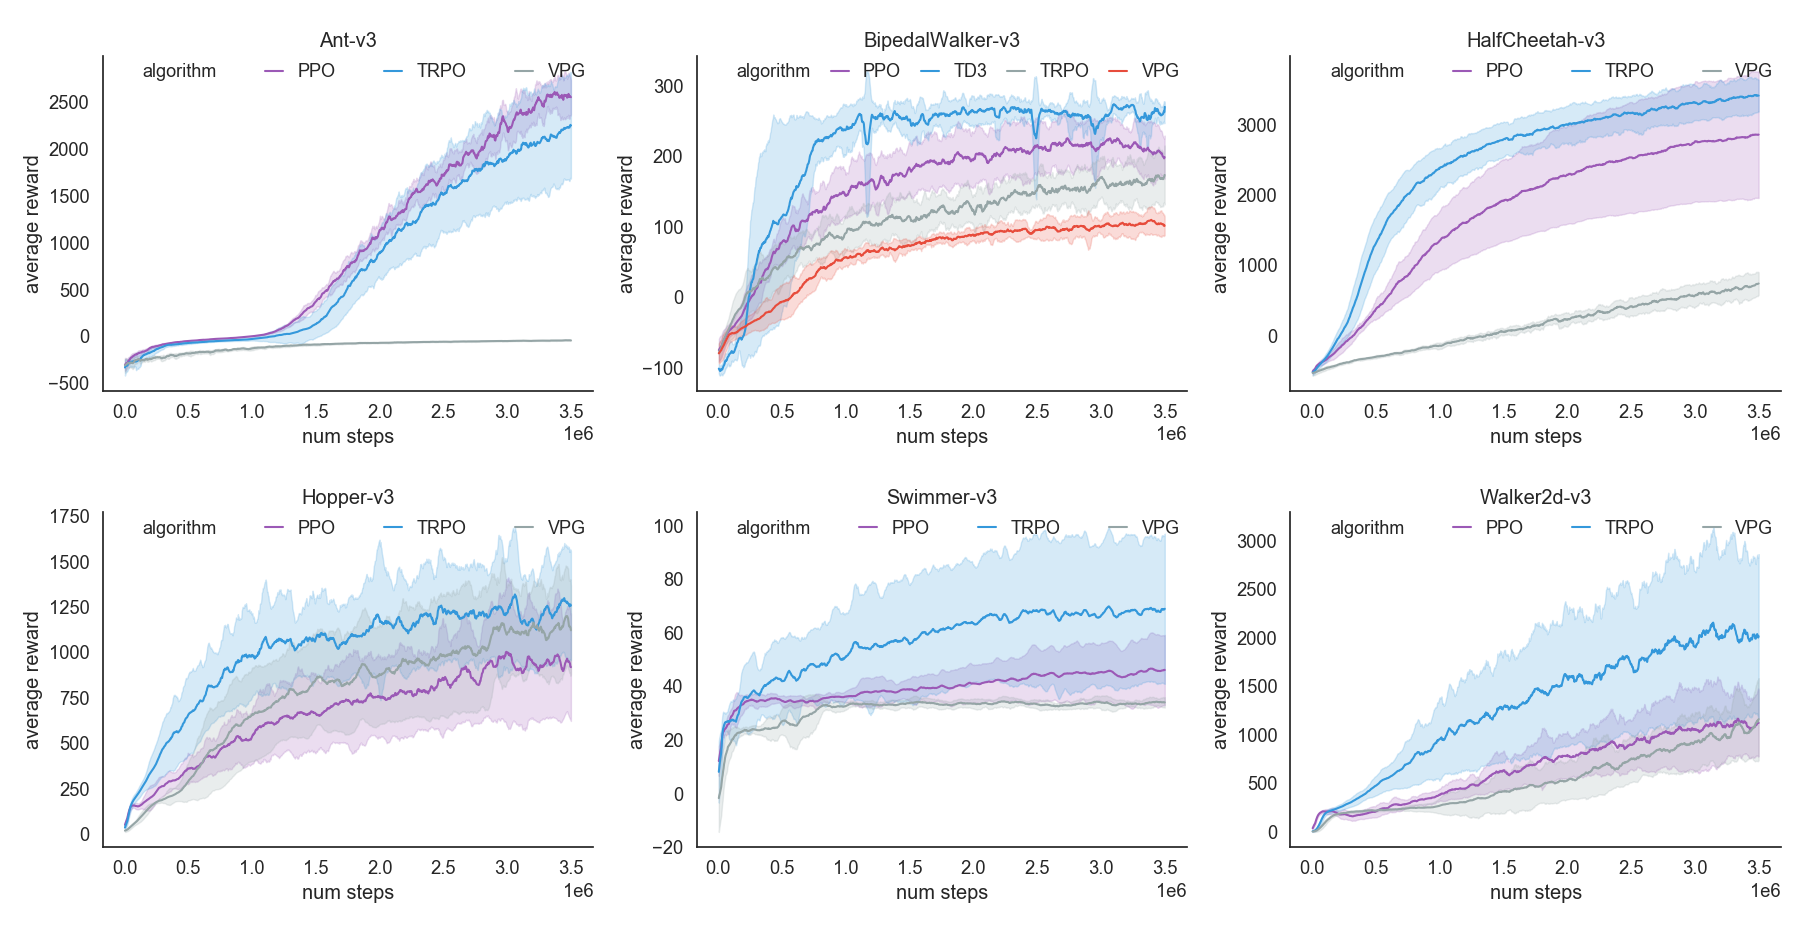
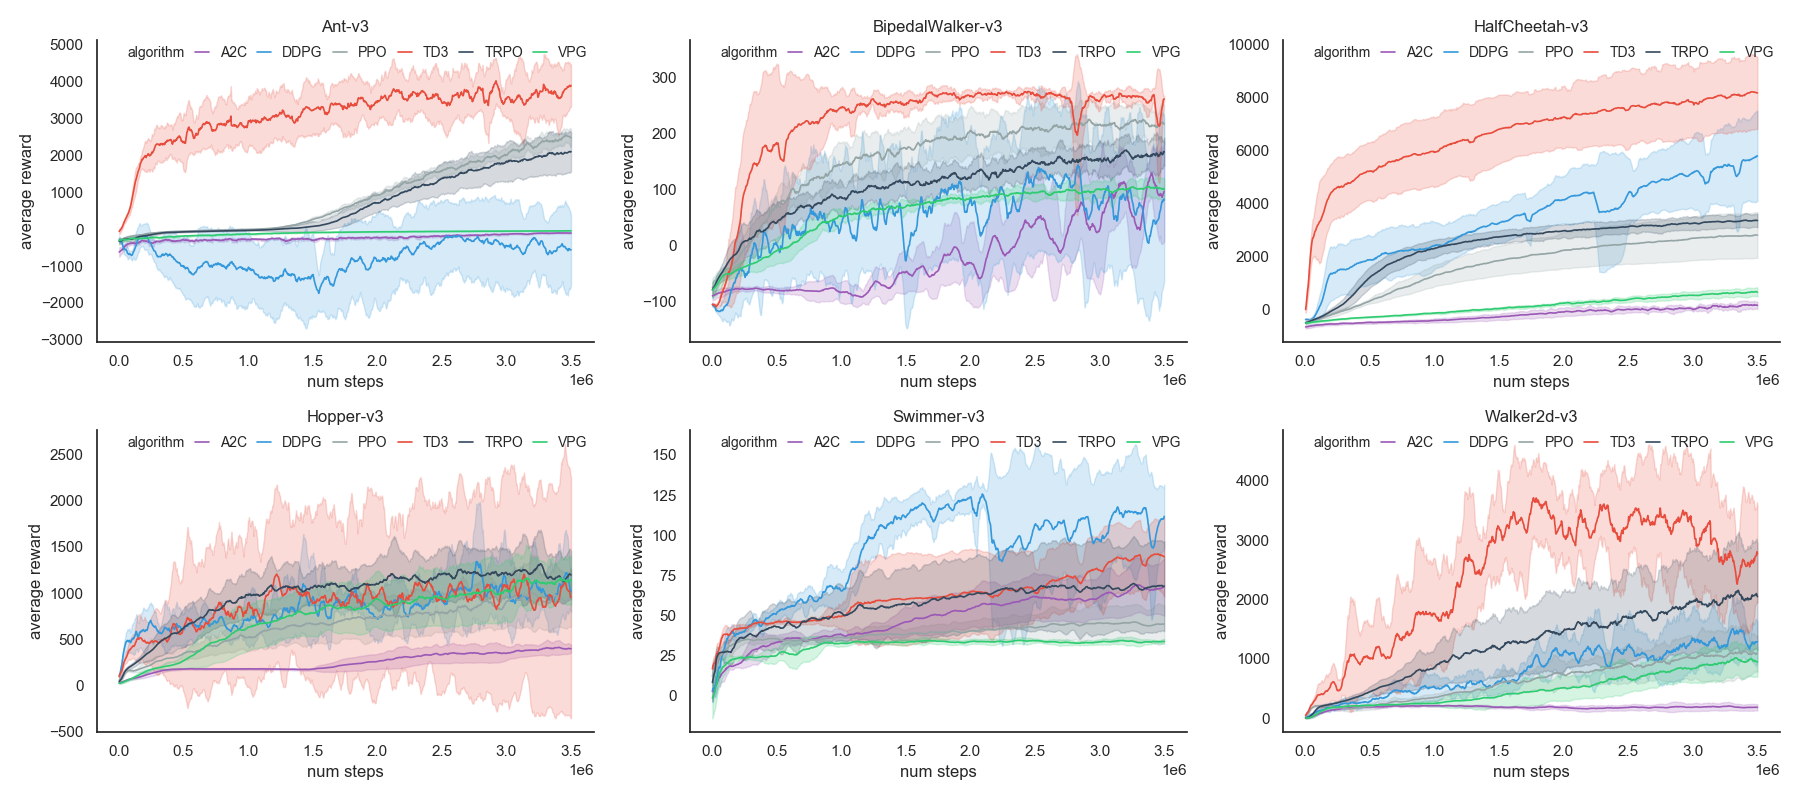
Update Benchmarks

diff --git a/Utils/plot_util.py b/Utils/plot_util.py
@@ -107,8 +107,8 @@ def get_env_alg_log(log_path):
     else:
         df = load_event_scalars(log_path)
     if "num steps" in df:
-        df["num steps"] = df["num steps"].cumsum()
-    else:
+    #     df["num steps"] = df["num steps"].cumsum()
+    # else:
         df["num steps"] = (np.ones((1, df.shape[0])) * 4000).cumsum()
         df = df[df["num steps"] <= 3500000]
     df["algorithm"] = [alg] * df.shape[0]
@@ -189,5 +189,5 @@ if __name__ == "__main__":
     env_filter_func_pg = lambda x: x.split(os.sep)[-1] in ["HalfCheetah-v3", "Hopper-v3", "Walker2d-v3", "Swimmer-v3",
                                                            "Ant-v3", "BipedalWalker-v3"]
     alg_filter_func = lambda x: x.split(os.sep)[-1].rsplit("_")[0] in []
-    main(env_filter_func=env_filter_func, alg_filter_func=None)
+    main(env_filter_func=env_filter_func_pg, alg_filter_func=None)
     sns.despine()

diff --git a/Algorithms/pytorch/ACER/__init__.py b/Algorithms/pytorch/ACER/__init__.py
@@ -1,0 +1,2 @@
+#!/usr/bin/env python
+# Created at 2020/4/10
